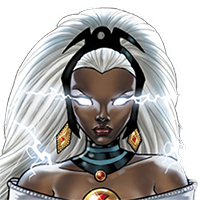
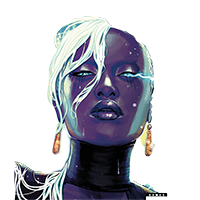
new storm pngs

diff --git a/src/utils/teamHeroes.js b/src/utils/teamHeroes.js
@@ -96,10 +96,10 @@ const teamHeroes = [
     cardUrl: 'https://raw.githubusercontent.com/rifkegribenes/dungeon-crawler/master/src/img/dust_200.png',
     damage: 10,
     level: 2,
-    createdBy: '',
-    srcName: '',
-    srcUrl: '',
-    artBy: '',
+    createdBy: 'Grant Morrison, Frank Quitely, Ethan Van Sciver',
+    srcName: 'New X-Men: Hellions #2',
+    srcUrl: 'https://en.wikipedia.org/wiki/Dust_(comics)#/media/File:DustProfile.jpg',
+    artBy: 'Clayton Henry',
   },
   {
     name: 'La Borinquena',
@@ -109,10 +109,10 @@ const teamHeroes = [
     cardUrl: 'https://raw.githubusercontent.com/rifkegribenes/dungeon-crawler/master/src/img/la-borinquena_200.png',
     damage: 10,
     level: 2,
-    createdBy: '',
-    srcName: '',
-    srcUrl: '',
-    artBy: '',
+    createdBy: 'Edgardo Miranda-Rodriguez',
+    srcName: 'La Borinqueña #1',
+    srcUrl: 'https://img.washingtonpost.com/news/comic-riffs/wp-content/uploads/sites/15/2016/05/LB_FINAL_CoverArt.jpg',
+    artBy: 'Edgardo Miranda-Rodriguez, Elliot Fernandez, Juan Fernandez',
   },
   {
     name: 'Ms. Marvel',
@@ -122,10 +122,10 @@ const teamHeroes = [
     cardUrl: 'https://raw.githubusercontent.com/rifkegribenes/dungeon-crawler/master/src/img/ms-marvel_200.png',
     damage: 10,
     level: 2,
-    createdBy: '',
-    srcName: '',
-    srcUrl: '',
-    artBy: '',
+    createdBy: 'Sana Amanat, Stephen Wacker, G. Willow Wilson, Adrian Alphona',
+    srcName: 'Ms. Marvel Vol 3 #3',
+    srcUrl: 'http://marvel.wikia.com/wiki/Ms._Marvel_Vol_3_3',
+    artBy: 'Jamie McKelvie, Matt Wilson',
   },
   {
     name: 'Silk',
@@ -135,10 +135,10 @@ const teamHeroes = [
     cardUrl: 'https://raw.githubusercontent.com/rifkegribenes/dungeon-crawler/master/src/img/silk_200.png',
     damage: 10,
     level: 2,
-    createdBy: '',
-    srcName: '',
-    srcUrl: '',
-    artBy: '',
+    createdBy: 'Dan Slott, Humberto Ramos',
+    srcName: 'Silk #1 1',
+    srcUrl: 'http://marvel.wikia.com/wiki/Silk_Vol_1_1',
+    artBy: 'Dave Johnson, Stacey Lee, Ian Herring',
   },
   {
     name: 'Misty Knight',
@@ -148,10 +148,10 @@ const teamHeroes = [
     cardUrl: 'https://raw.githubusercontent.com/rifkegribenes/dungeon-crawler/master/src/img/misty-knight_200.png',
     damage: 10,
     level: 2,
-    createdBy: '',
-    srcName: '',
-    srcUrl: '',
-    artBy: '',
+    createdBy: 'Tony Isabella, Arvell Jones',
+    srcName: 'Daughters of the Dragon #1',
+    srcUrl: 'http://marvel.com/comics/issue/3203/daughters_of_the_dragon_2006_1',
+    artBy: 'Khari Evans',
   },
   {
     name: 'Grace Choi',
@@ -161,10 +161,10 @@ const teamHeroes = [
     cardUrl: 'https://raw.githubusercontent.com/rifkegribenes/dungeon-crawler/master/src/img/grace-choi_200.png',
     damage: 10,
     level: 3,
-    createdBy: '',
-    srcName: '',
-    srcUrl: '',
-    artBy: '',
+    createdBy: 'Judd Winick, Tom Raney',
+    srcName: 'Outsiders Vol. 3 #9',
+    srcUrl: 'https://comicvine.gamespot.com/images/1300-289036',
+    artBy: 'Tom Raney, Scott Hanna, Gina Going',
   },
   {
     name: 'Storm',
@@ -174,10 +174,10 @@ const teamHeroes = [
     cardUrl: 'https://raw.githubusercontent.com/rifkegribenes/dungeon-crawler/master/src/img/storm_200.png',
     damage: 10,
     level: 3,
-    createdBy: '',
-    srcName: '',
-    srcUrl: '',
-    artBy: '',
+    createdBy: 'Len Wein, Dave Cockrum',
+    srcName: 'Storm #11',
+    srcUrl: 'http://marvel.com/comics/issue/52719/storm_2014_11',
+    artBy: 'Stephanie Hans',
   },
 
   {

diff --git a/src/containers/About.jsx b/src/containers/About.jsx
@@ -6,21 +6,19 @@ import { Link } from 'react-router-dom';
 import * as Actions from '../store/actions';
 import teamHeroes from '../utils/teamHeroes';
 
-const heroCredits = teamHeroes.map((hero) => {
-  return (
-    <div className="splash__item">
-      <div className="splash__avatar-wrap">
-        <img src={hero.cardUrl} alt={hero.name} className="card-pic card-pic--round" />
-      </div>
-      <div className="splash__text-wrap">
-        <span className="splash__bold">{hero.name}</span><br />
+const heroCredits = teamHeroes.map(hero => (
+  <div className="splash__item">
+    <div className="splash__avatar-wrap">
+      <img src={hero.cardUrl} alt={hero.name} className="card-pic card-pic--round" />
+    </div>
+    <div className="splash__text-wrap">
+      <span className="splash__bold">{hero.name}</span><br />
           Character created by: {hero.createdBy || ''}<br />
           Image source: <a className="splash__link" href={hero.srcUrl}>{hero.srcName}</a><br />
           Artwork by: {hero.artBy || 'Unknown'}
-      </div>
     </div>
-  );
-});
+  </div>
+  ));
 
 const About = () => (
   <div className="splash">

diff --git a/src/styles/splash.scss b/src/styles/splash.scss
@@ -214,5 +214,6 @@
 
   &__text-wrap {
     line-height: 1.5em;
+    max-width: 250px;
   }
 }
